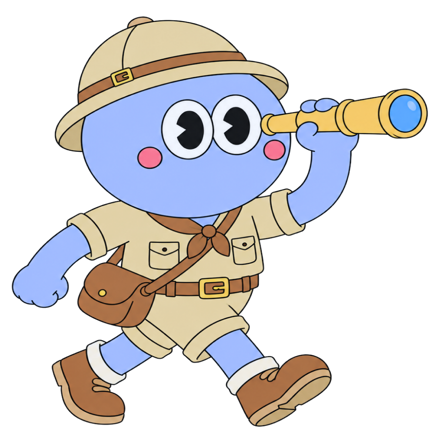
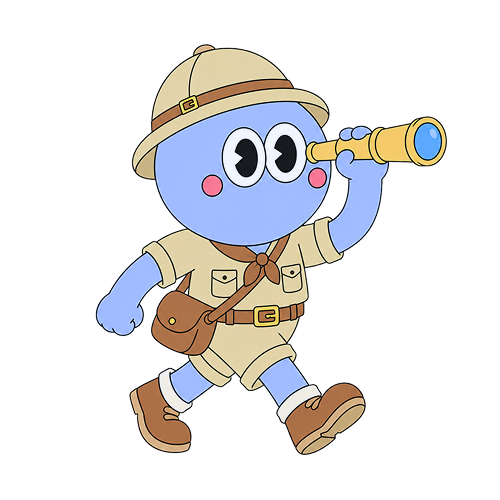
🐛 Fix: 취향카드 캐릭터 이미지 및 위치 수정

diff --git a/apps/web/src/features/report/components/monthly-report/report-preference-card/reportPreferenceCardVariants.ts b/apps/web/src/features/report/components/monthly-report/report-preference-card/reportPreferenceCardVariants.ts
@@ -27,10 +27,10 @@ export const REPORT_PREFERENCE_CARD_VARIANTS: Record<
   'night-watch': {
     backClassName: 'bg-report-card-night-back',
     characterAlt: '손으로 브이 표시를 하는 방패 캐릭터',
-    characterClassName: 'top-24.25 left-12 h-48.5 w-45.25',
+    characterClassName: 'top-16.75 left-1/2 size-62.5 -translate-x-1/2',
     characterImage: ReportCardNightWatchImage,
     frontClassName: 'bg-report-card-night-front',
-    saveCharacterClassName: 'top-21.5 left-10.5 h-43 w-40',
+    saveCharacterClassName: 'top-21.5 left-1/2 size-41.5 -translate-x-1/2',
     shareClassName: 'bg-report-share-night-watch',
     spotClassName: 'bg-report-card-night-spot',
     textureClassName: 'opacity-40',
@@ -39,10 +39,10 @@ export const REPORT_PREFERENCE_CARD_VARIANTS: Record<
   'food-nomad': {
     backClassName: 'bg-report-card-nomad-back',
     characterAlt: '소시지를 맛보는 요리사 캐릭터',
-    characterClassName: 'top-16.25 left-13 h-63.5 w-42.25',
+    characterClassName: 'top-16.25 left-1/2 size-62.5 -translate-x-1/2',
     characterImage: ReportCardFoodNomadImage,
     frontClassName: 'bg-report-card-nomad-front',
-    saveCharacterClassName: 'top-14.25 left-11.5 h-56 w-37.25',
+    saveCharacterClassName: 'top-14.25 left-1/2 size-41.5 -translate-x-1/2',
     shareClassName: 'bg-report-share-food-nomad',
     spotClassName: 'bg-report-card-nomad-spot',
     textureClassName: 'opacity-40',
@@ -51,10 +51,10 @@ export const REPORT_PREFERENCE_CARD_VARIANTS: Record<
   'local-regular': {
     backClassName: 'bg-report-card-regular-back',
     characterAlt: '왕관과 망토를 두르고 왕좌에 앉은 캐릭터',
-    characterClassName: 'top-18 left-7.75 h-57.5 w-53.75',
+    characterClassName: 'top-15 left-1/2 size-62.5 -translate-x-1/2',
     characterImage: ReportCardLocalRegularImage,
     frontClassName: 'bg-report-card-regular-front',
-    saveCharacterClassName: 'top-16 left-7.75 h-50.75 w-47.5',
+    saveCharacterClassName: 'top-16 left-1/2 size-41.5 -translate-x-1/2',
     shareClassName: 'bg-report-share-local-regular',
     spotClassName: 'bg-report-card-regular-spot',
     textureClassName: 'opacity-30',
@@ -63,10 +63,10 @@ export const REPORT_PREFERENCE_CARD_VARIANTS: Record<
   'alley-explorer': {
     backClassName: 'bg-report-card-explorer-back',
     characterAlt: '망원경으로 골목을 살펴보는 탐험가 캐릭터',
-    characterClassName: 'top-21.25 left-13.75 h-55.75 w-47',
+    characterClassName: 'top-18.5 left-1/2 size-62.5 -translate-x-1/2',
     characterImage: ReportCardAlleyExplorerImage,
     frontClassName: 'bg-report-card-explorer-front',
-    saveCharacterClassName: 'top-18.75 left-12.25 h-49.25 w-41.5',
+    saveCharacterClassName: 'top-18.75 left-1/2 size-41.5 -translate-x-1/2',
     shareClassName: 'bg-report-share-alley-explorer',
     spotClassName: 'bg-report-card-explorer-spot',
     textureClassName: 'opacity-55',

diff --git a/apps/web/src/features/report/components/monthly-report/report-preference-card/ReportPreferenceSharedCard.test.tsx b/apps/web/src/features/report/components/monthly-report/report-preference-card/ReportPreferenceSharedCard.test.tsx
@@ -21,9 +21,13 @@ describe('ReportPreferenceSharedCard', () => {
 
     const card = screen.getByRole('article', { name: '동네 터줏대감 공유 카드' });
     const titleGroup = screen.getByRole('heading', { name: '동네 터줏대감' }).parentElement;
+    const character = screen.getByRole('img', {
+      name: '왕관과 망토를 두르고 왕좌에 앉은 캐릭터',
+    });
 
     expect(card).toHaveClass('w-61', 'shadow-report-preference-share-card');
     expect(titleGroup).toHaveClass('text-neutral-00');
+    expect(character).toHaveClass('size-41.5', 'left-1/2', '-translate-x-1/2');
     expect(screen.getByText(CARD_PROPS.description)).toBeInTheDocument();
   });
 

diff --git a/apps/web/src/features/report/components/monthly-report/ReportPreferenceSection.test.tsx b/apps/web/src/features/report/components/monthly-report/ReportPreferenceSection.test.tsx
@@ -46,6 +46,11 @@ describe('ReportPreferenceSection', () => {
     expect(
       thumbnailCaptureRef.current?.querySelector('.report-preference-card-face--back')
     ).toBeNull();
+    expect(
+      screen.getAllByRole('img', {
+        name: '왕관과 망토를 두르고 왕좌에 앉은 캐릭터',
+      })[0]
+    ).toHaveClass('size-62.5', 'left-1/2', '-translate-x-1/2');
   });
 
   it('empty 카드에서는 공유와 뒤집기 버튼을 비활성화하고 키보드 월 이동은 유지한다', () => {
